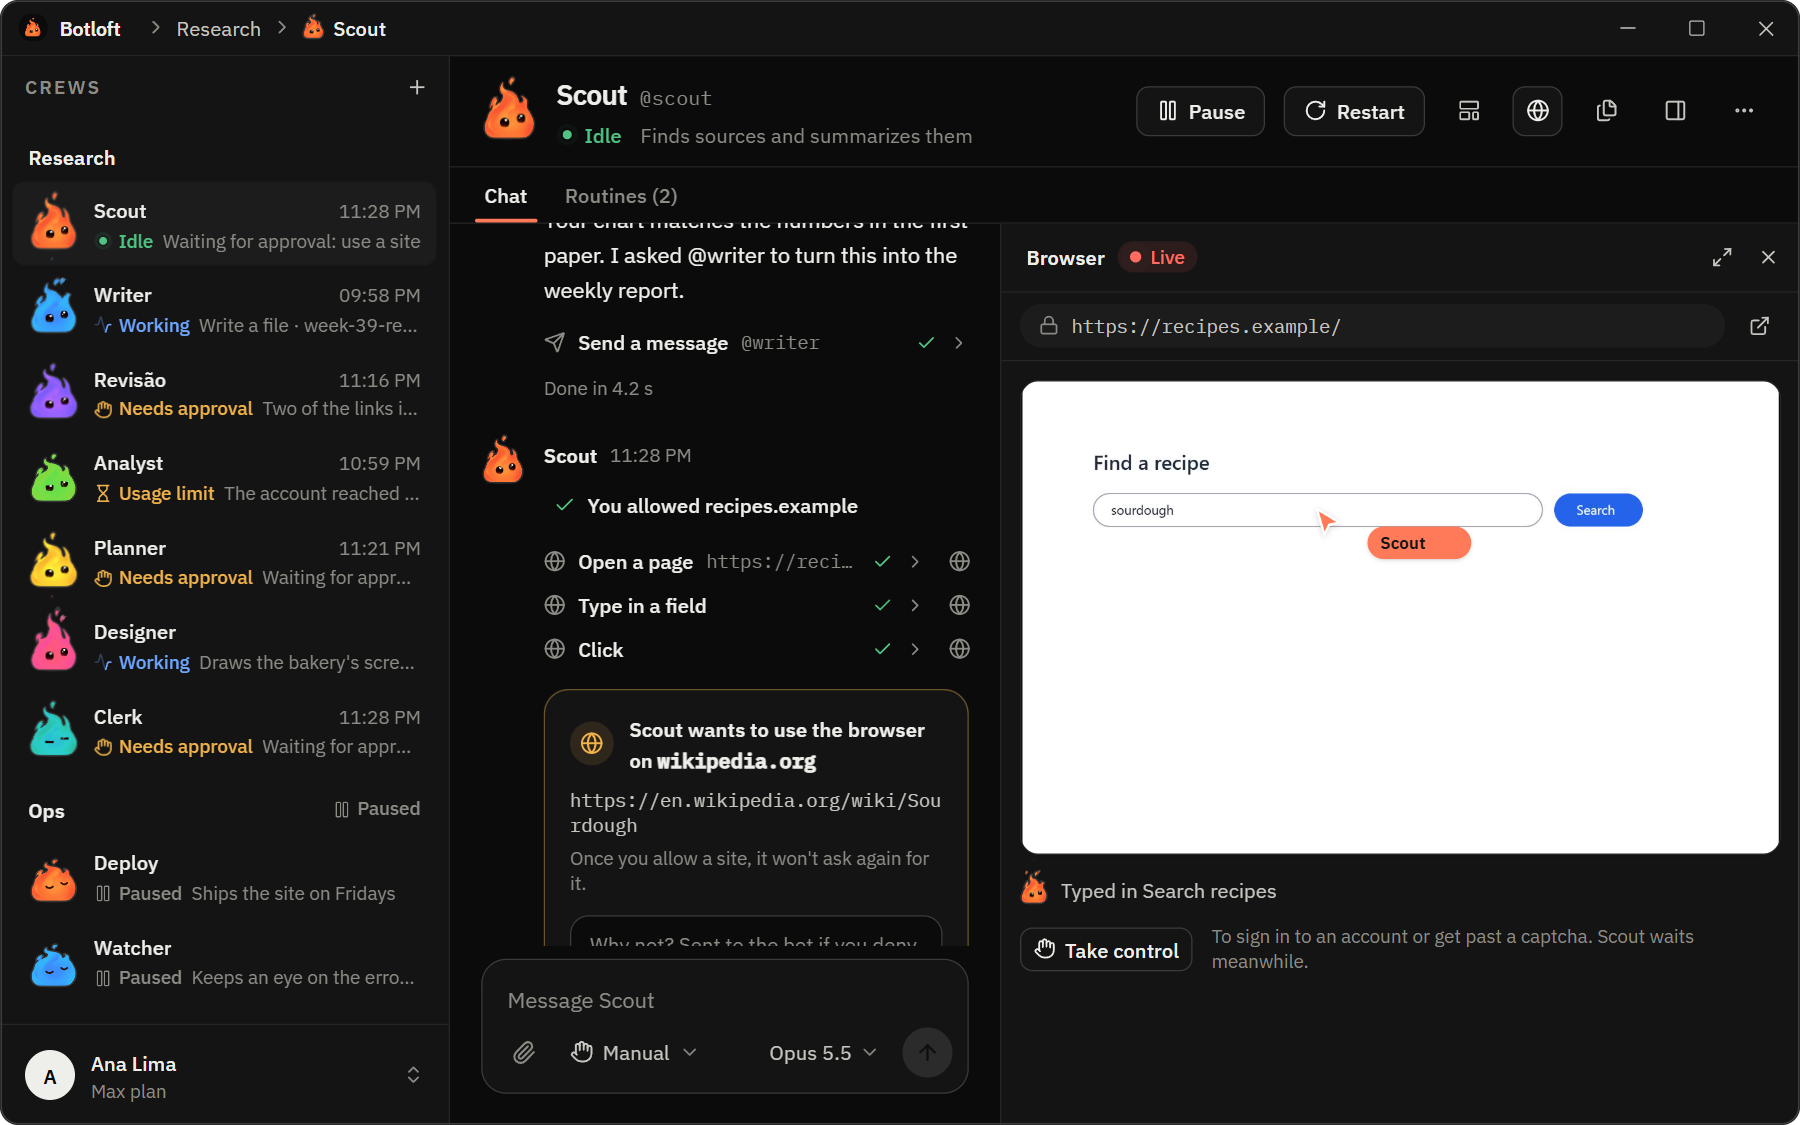
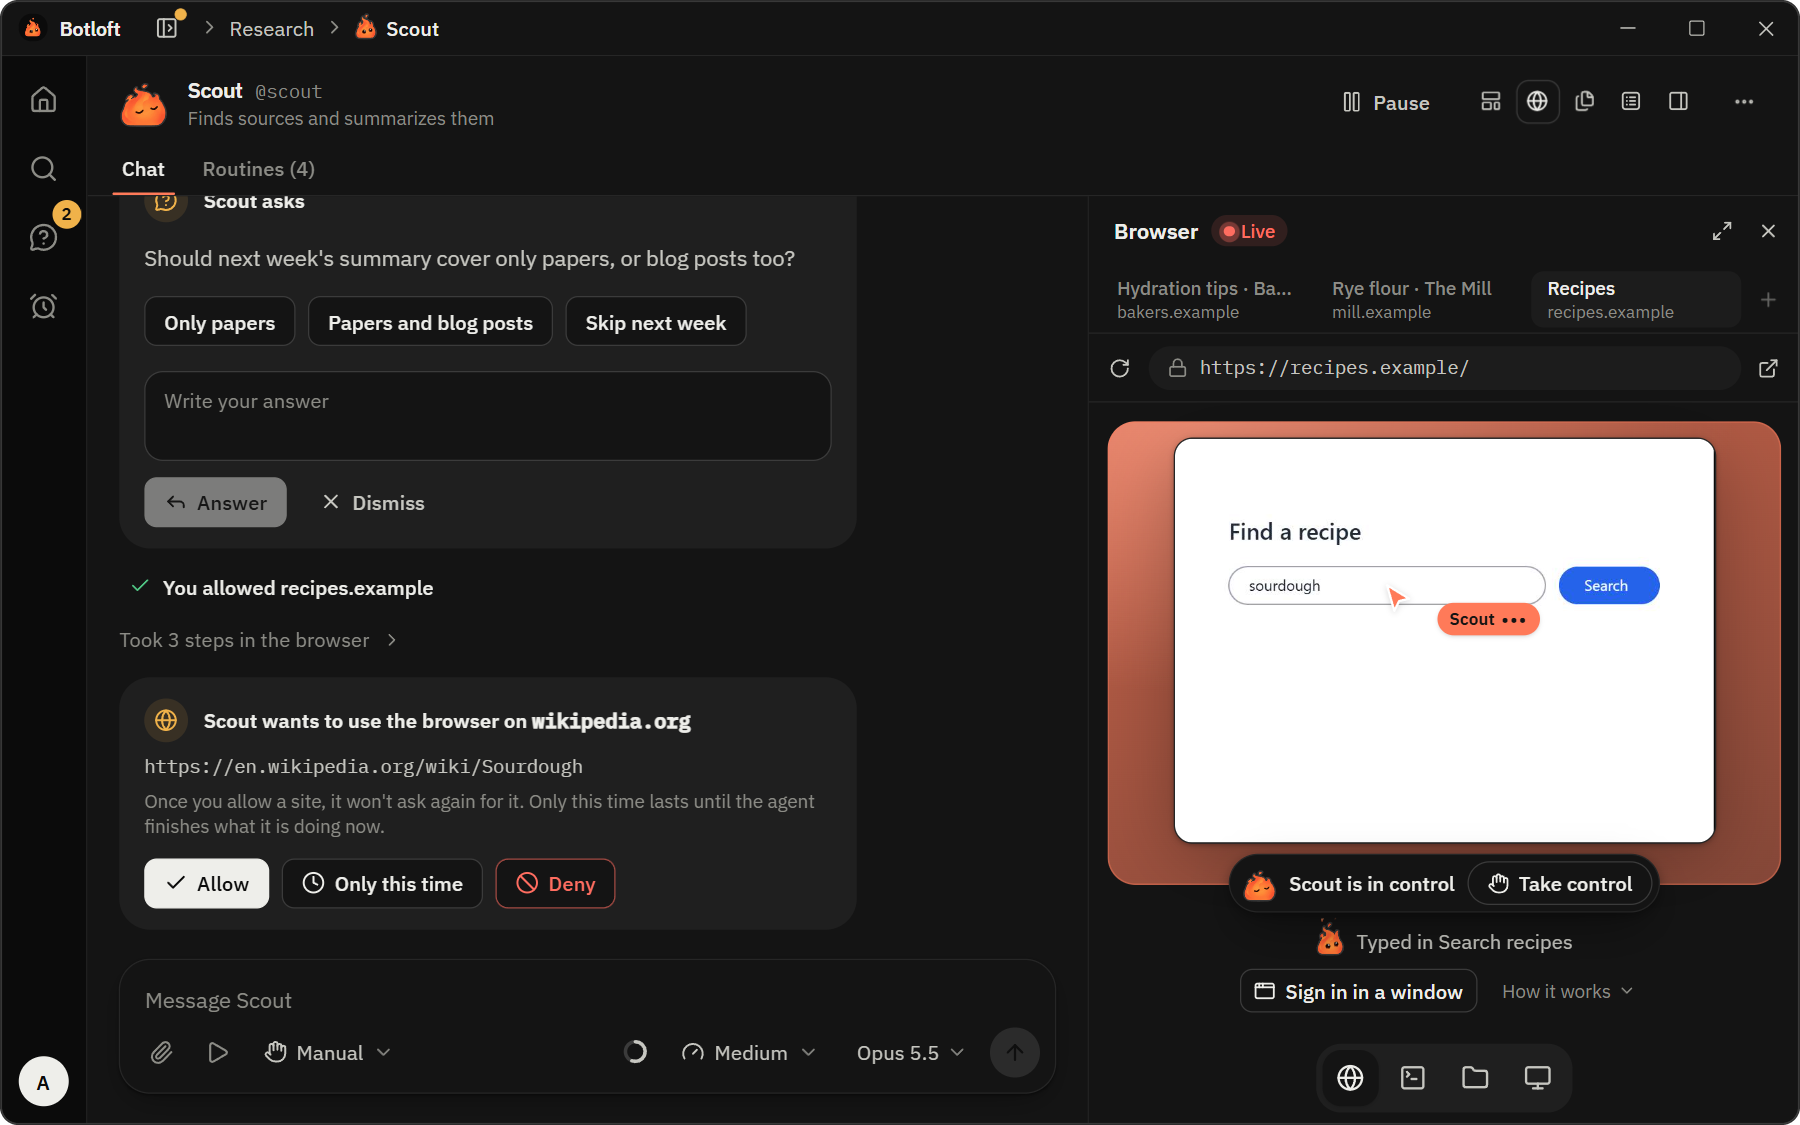
docs(readme): screenshots of today's app, where each one is an agent
The six pictures the README and the site share were from September: the
old layout and "New bot", "7 bots". They are taken again from the dev
preview's sample crews, in English at 1800x1125 with the same frame, in
the same scenes: the Research crew with seven agents (light and dark),
Scout's chat with the live browser, Designer writing the bakery page in
Screens, the Chief suggesting an agent and the crew's routines.

The routines tab now shows other routines than before (a shortcut, a
one-time reminder, a recheck on a signal), so its alt text in the README
and on the site says what is there.

The preview's fake browser page drew its search button at a fixed spot
past the 800 px the panel gives it; it now lays the box, the button and
Scout's clicks out by the page's width (dev only).

diff --git a/app/src/dev/seedBrowser.ts b/app/src/dev/seedBrowser.ts
@@ -19,6 +19,13 @@ interface Scene {
   results: boolean;
 }
 
+/** Where the search box and its button sit, so a narrow page shows both. */
+function searchBar(width: number): { left: number; box: number; button: number } {
+  const left = Math.min(120, Math.round(width * 0.1));
+  const box = Math.min(760, width - 2 * left - 170);
+  return { left, box, button: left + box + 20 };
+}
+
 function draw(scene: Scene, size: PageSize): string {
   const canvas = document.createElement("canvas");
   canvas.width = size.width;
@@ -27,35 +34,37 @@ function draw(scene: Scene, size: PageSize): string {
   if (!g) {
     return "";
   }
+  const { left, box, button } = searchBar(size.width);
   g.fillStyle = "#ffffff";
   g.fillRect(0, 0, size.width, size.height);
   g.fillStyle = "#1f2937";
   g.font = "600 34px system-ui, sans-serif";
-  g.fillText(scene.results ? "Results" : "Find a recipe", 120, 150);
+  g.fillText(scene.results ? "Results" : "Find a recipe", left, 150);
   g.strokeStyle = "#9ca3af";
   g.lineWidth = 2;
   g.beginPath();
-  g.roundRect(120, 190, 760, 56, 28);
+  g.roundRect(left, 190, box, 56, 28);
   g.stroke();
   g.fillStyle = scene.query ? "#111827" : "#9ca3af";
   g.font = "22px system-ui, sans-serif";
-  g.fillText(scene.query || "Search recipes", 150, 226);
+  g.fillText(scene.query || "Search recipes", left + 30, 226);
   g.fillStyle = "#2563eb";
   g.beginPath();
-  g.roundRect(900, 190, 150, 56, 28);
+  g.roundRect(button, 190, 150, 56, 28);
   g.fill();
   g.fillStyle = "#ffffff";
-  g.fillText("Search", 938, 226);
+  g.fillText("Search", button + 38, 226);
   if (scene.results) {
+    const line = Math.min(820, size.width - 2 * left);
     // A taller page shows more of the list.
     for (let row = 0; 300 + row * 110 < size.height - 60; row++) {
       const y = 300 + row * 110;
       g.fillStyle = "#1d4ed8";
       g.font = "600 24px system-ui, sans-serif";
-      g.fillText(RECIPES[row % RECIPES.length] ?? "", 120, y);
+      g.fillText(RECIPES[row % RECIPES.length] ?? "", left, y);
       g.fillStyle = "#e5e7eb";
-      g.fillRect(120, y + 18, 820, 14);
-      g.fillRect(120, y + 42, 560, 14);
+      g.fillRect(left, y + 18, line, 14);
+      g.fillRect(left, y + 42, Math.round(line * 0.68), 14);
     }
   }
   return canvas.toDataURL("image/jpeg", 0.7).split(",")[1] ?? "";
@@ -69,21 +78,30 @@ export function seedBrowser(fake: FakeBotloft, scout: BotId): void {
     query: "",
     results: false,
   };
+  // The width of the page last drawn: the clicks land where it put things.
+  let width = 1200;
   const steps: ((scene: Scene) => Scene)[] = [
     (scene) => {
       fake.browser.act(scout, "open", { label: "recipes.example" });
       return scene;
     },
     (scene) => {
-      fake.browser.act(scout, "type", { x: 500, y: 218, label: "Search recipes" });
+      const { left, box } = searchBar(width);
+      fake.browser.act(scout, "type", {
+        x: left + Math.round(box / 2),
+        y: 218,
+        label: "Search recipes",
+      });
       return { ...scene, query: "sourdough" };
     },
     (scene) => {
-      fake.browser.act(scout, "click", { x: 975, y: 218, label: "Search" });
+      const { button } = searchBar(width);
+      fake.browser.act(scout, "click", { x: button + 75, y: 218, label: "Search" });
       return { ...scene, url: "https://recipes.example/search?q=sourdough", results: true };
     },
     (scene) => {
-      fake.browser.act(scout, "click", { x: 260, y: 300, label: "Classic sourdough loaf" });
+      const { left } = searchBar(width);
+      fake.browser.act(scout, "click", { x: left + 140, y: 300, label: "Classic sourdough loaf" });
       return scene;
     },
     () => {
@@ -122,6 +140,7 @@ export function seedBrowser(fake: FakeBotloft, scout: BotId): void {
   fake.browser.openTab(scout, "https://mill.example/flour/rye", "Rye flour · The Mill");
   fake.browser.openTab(scout, home.url, home.title);
   fake.browser.paint(scout, (size) => {
+    width = size.width;
     const tab = activeTab(fake, scout);
     return tab?.url.startsWith(SITE) ? draw(scene, size) : drawPage(tab, size);
   });

diff --git a/app/src/i18n/es/site.ts b/app/src/i18n/es/site.ts
@@ -102,7 +102,7 @@ export const site: SiteMessages = {
       routines: {
         title: "Rutinas",
         body: "Trabajo que corre con horario, con el último resultado a la vista.",
-        alt: "Las rutinas de un equipo: un resumen las mañanas de días hábiles, una revisión de enlaces cada dos horas, números semanales y un archivo nocturno",
+        alt: "Las rutinas de un equipo: un resumen las mañanas de días hábiles, una revisión de la bandeja de entrada con un clic, un recordatorio de una sola vez, una revisión de enlaces cada dos horas y un repaso de las fuentes que espera la señal de otro agente",
       },
     },
     note: "Las imágenes muestran equipos de ejemplo, no datos reales.",

diff --git a/app/src/i18n/pt-BR/site.ts b/app/src/i18n/pt-BR/site.ts
@@ -102,7 +102,7 @@ export const site: SiteMessages = {
       routines: {
         title: "Rotinas",
         body: "Trabalho que roda num horário, com o último resultado à vista.",
-        alt: "As rotinas de uma equipe: um resumo nas manhãs de dia útil, uma checagem de links a cada duas horas, números semanais e um arquivo à noite",
+        alt: "As rotinas de uma equipe: um resumo nas manhãs de dia útil, uma olhada na caixa de entrada com um clique, um lembrete de uma vez só, uma checagem de links a cada duas horas e uma revisão das fontes que espera o sinal de outro agente",
       },
     },
     note: "As imagens mostram equipes de exemplo, não dados reais.",

diff --git a/app/src/i18n/en/site.ts b/app/src/i18n/en/site.ts
@@ -102,7 +102,7 @@ export const site = {
       routines: {
         title: "Routines",
         body: "Work that runs on a schedule, with the last result at a glance.",
-        alt: "A crew's routines: a morning summary on weekdays, a link check every two hours, weekly numbers and a nightly archive",
+        alt: "A crew's routines: a morning summary on weekdays, an inbox check run with a click, a one-time reminder, a link check every two hours and a source recheck that waits for another agent's signal",
       },
     },
     note: "The pictures show sample crews, not real data.",

diff --git a/README.md b/README.md
@@ -116,7 +116,7 @@ off until you turn them on (see [Engines](#engines)).
   </tr>
   <tr>
     <td width="50%"><img src="docs/assets/chief.png" alt="The Chief suggesting a new agent, Designer, with its name, model, role and instructions ready to edit"><br><sub><b>A Chief for each crew.</b> It suggests the agents the work needs.</sub></td>
-    <td width="50%"><img src="docs/assets/routines.png" alt="The crew's routines: a morning summary on weekdays, a link check every two hours, weekly numbers and a nightly archive"><br><sub><b>Routines.</b> Work that runs on a schedule, with the last result at a glance.</sub></td>
+    <td width="50%"><img src="docs/assets/routines.png" alt="The crew's routines: a morning summary on weekdays, an inbox check run with a click, a one-time reminder, a link check every two hours and a source recheck that waits for another agent's signal"><br><sub><b>Routines.</b> Work that runs on a schedule, with the last result at a glance.</sub></td>
   </tr>
 </table>
 
